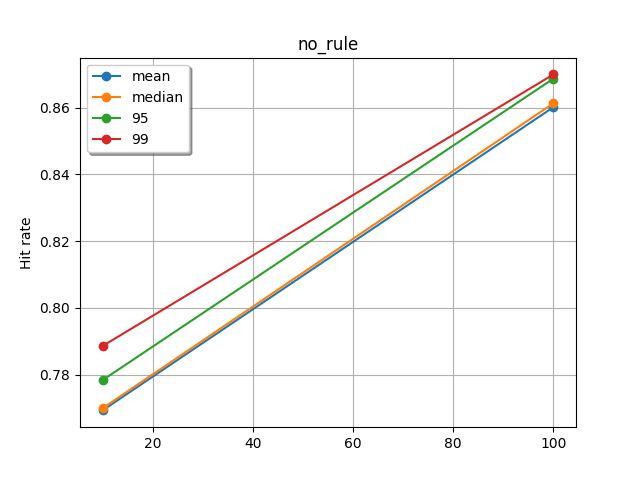
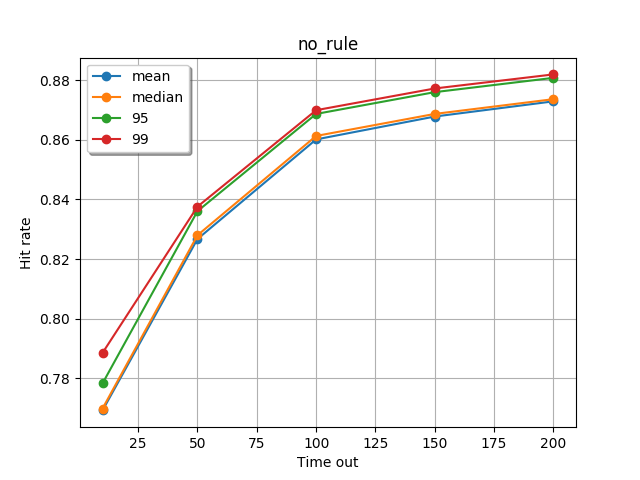
Fix Memory issue, add results

diff --git a/new_parser.py b/new_parser.py
@@ -5,10 +5,12 @@ features:
 '''
 import argparse
 import csv
-import numpy as np
-import matplotlib.pyplot as plt
 import os
 import parser as switch_parser
+
+import matplotlib.pyplot as plt
+import numpy as np
+
 
 def plot(x, y, name, linestyle='.'):
     # Plot the figure
@@ -25,13 +27,14 @@ def plot(x, y, name, linestyle='.'):
     ax.axhline(flow_99, color='k', linestyle='--', label='99: %.3f' % flow_99)
 
     # Coniguration
-    box = ax.get_position()
+    # box = ax.get_position()
     # ax.set_position([box.x0, box.y0, box.width * 0.8, box.height])
     if name == 'Flow':
         ax.legend(loc='upper right', fontsize='small', framealpha=0)
     else:
         ax.legend(loc='center right', fontsize='small', framealpha=0)
     plt.ylabel(name)
+    plt.xlabel('time')
     plt.title(name)
 
 
@@ -106,6 +109,7 @@ def parse(file_name, file_cate, file_to):
     plt.savefig(dir_name + '/' + 'flow')
     plot(all_time, all_hit_rate, "Hit Rate", linestyle='-')
     plt.savefig(dir_name + '/' + 'hit_rate')
+    plt.close('all')
 
     csv_fp.close()
     return [all_time, all_active_flows, all_hit_rate]
@@ -163,8 +167,10 @@ def parse_all(all_info, file_cat, times):
             ax.legend(loc='upper left', shadow=True)
             ax.grid(True)
             plt.ylabel("Flow occupancy")
+            plt.xlabel("Time out")
             plt.title(cur_cat)
             plt.savefig(dir_name + '/' + cur_cat+ '_flow')
+            plt.close('all')
 
             # Plot the hr
             fig, ax = plt.subplots()
@@ -176,7 +182,9 @@ def parse_all(all_info, file_cat, times):
             ax.grid(True)
             plt.ylabel("Hit rate")
             plt.title(cur_cat)
+            plt.xlabel("Time out")
             plt.savefig(dir_name + '/' + cur_cat+ '_hr')
+            plt.close('all')
 
         categories[cur_cat] = info
 
